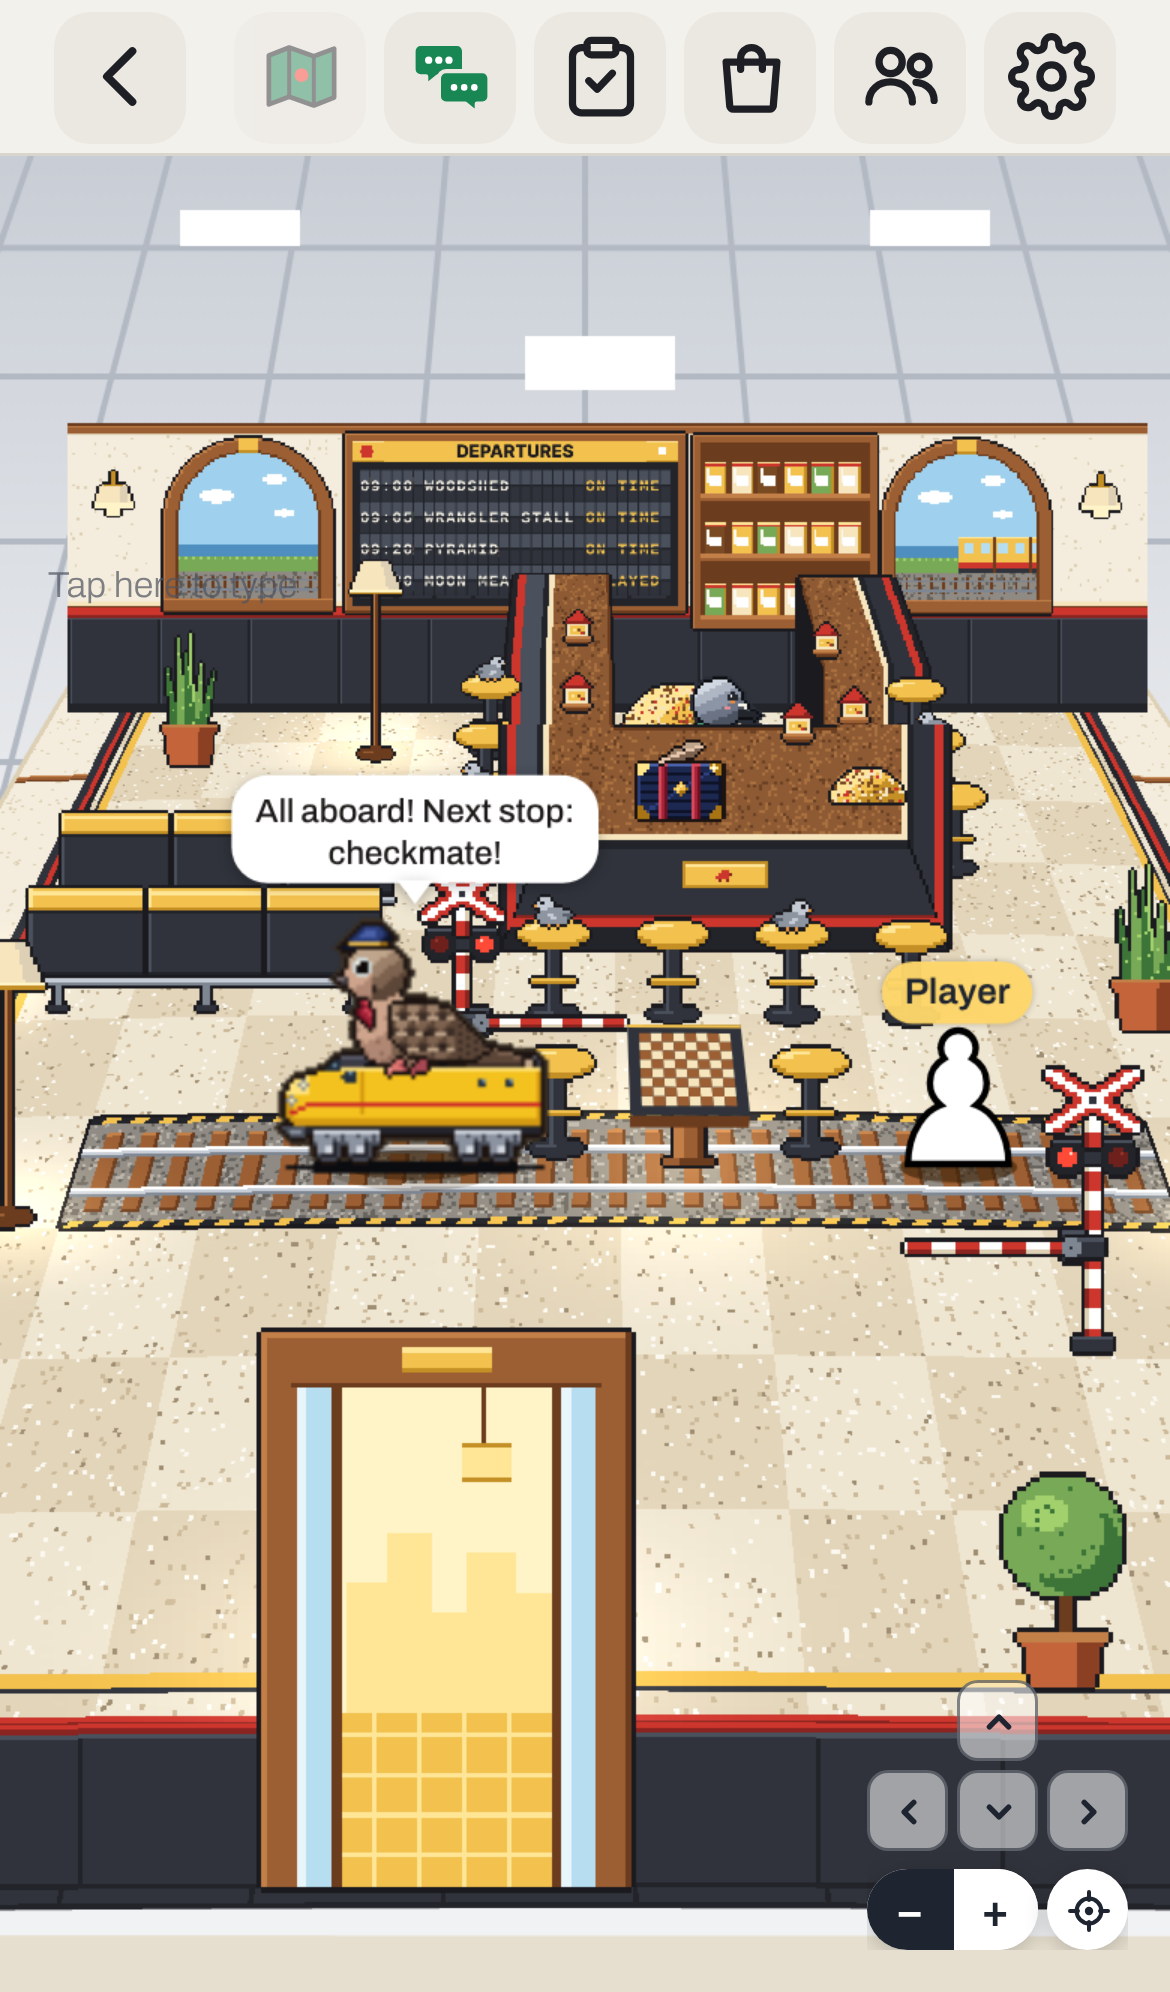
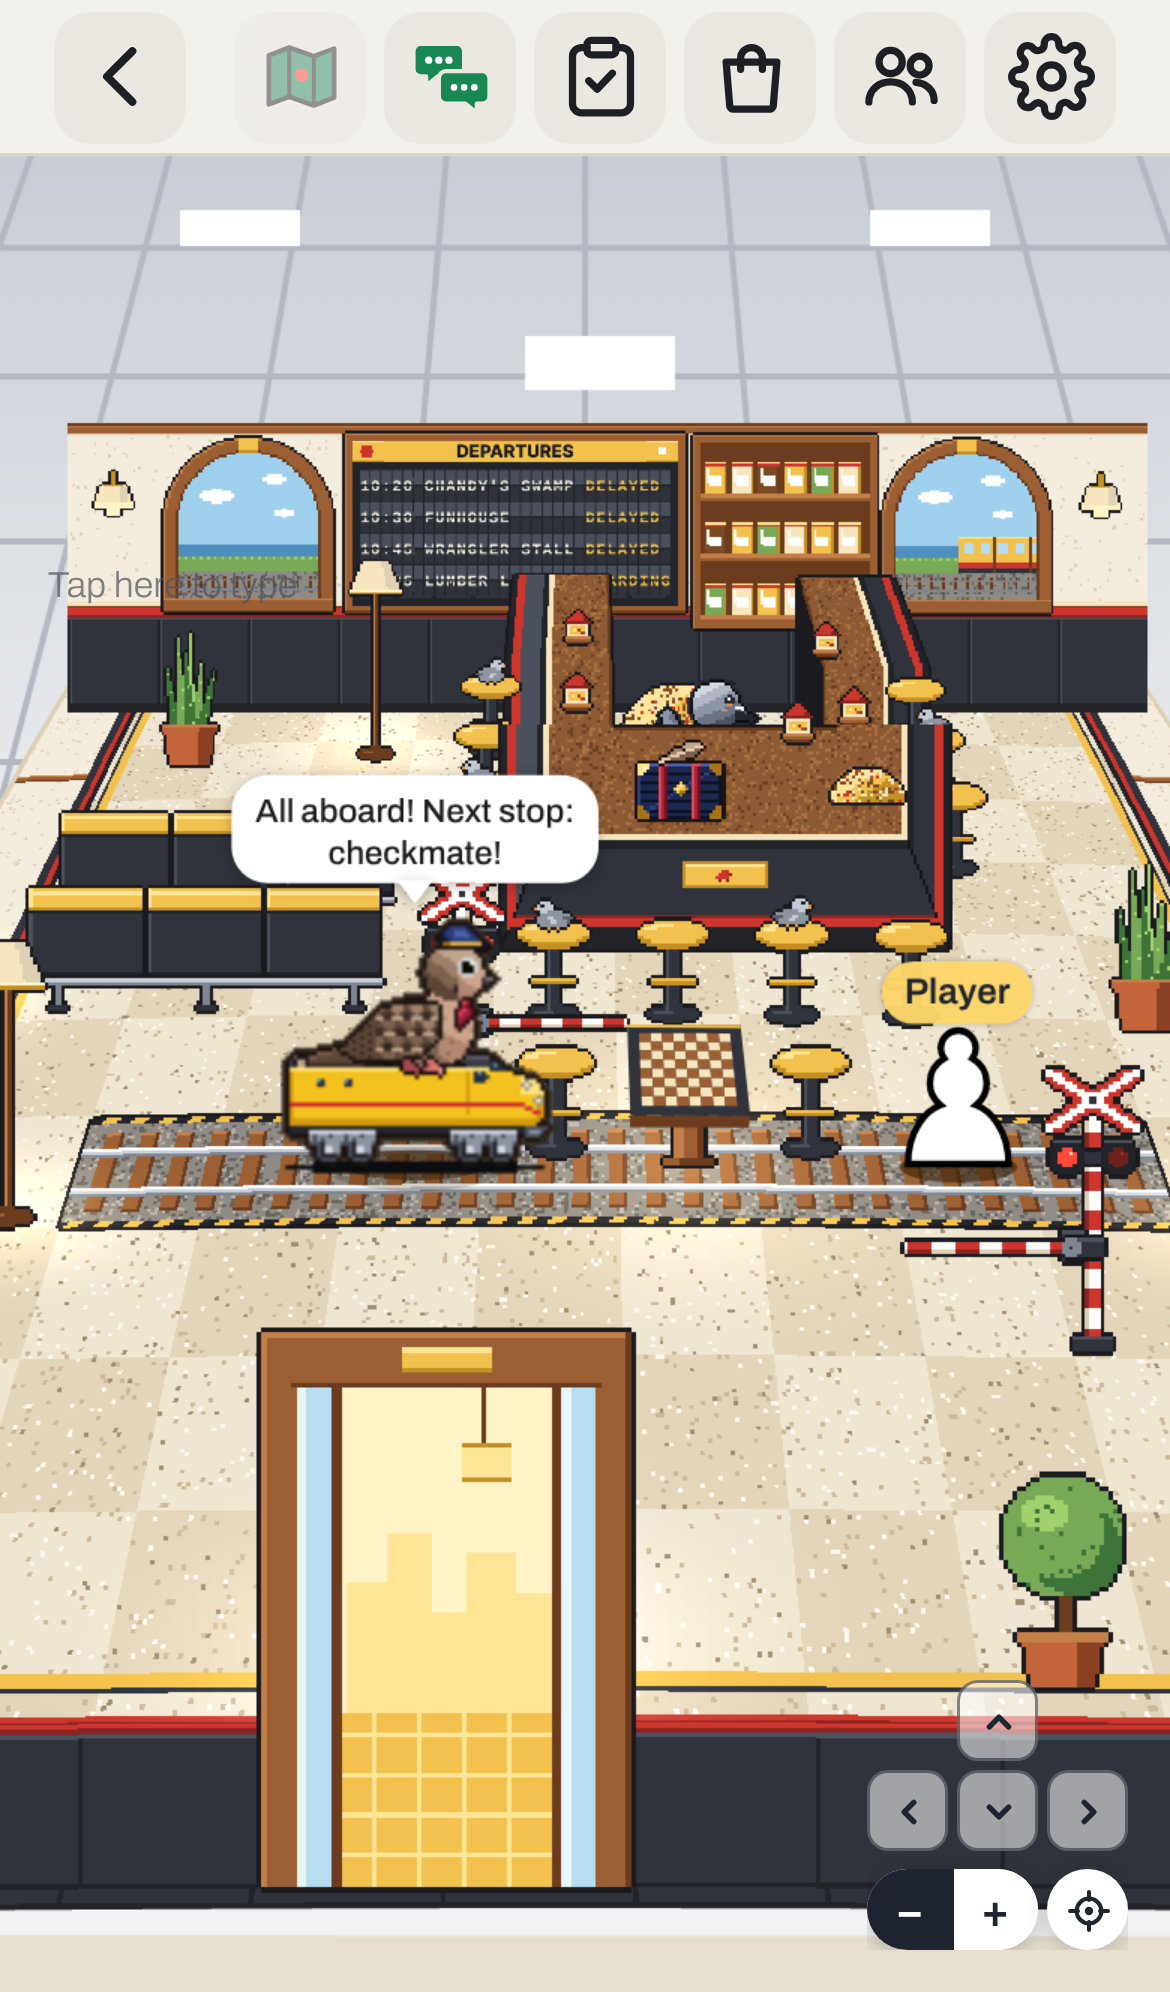
Birdie's lobby round 4: the challenge stills retaken with Birdie facing the table
Claude-Session: https://claude.ai/code/session_01JuCWRrZMbUBnzCfeJ7P7uy

diff --git a/NOTE.md b/NOTE.md
@@ -40,3 +40,7 @@ its depth, so it reads as one counter from every camera.
 - From the usual camera the arms' tops rise toward the back wall as they recede, as the run's top does over its face: every upright
   thing in the room stands up at its depth this way, and the arms now do it smoothly, not in three steps.
 - The art's bar stools stand a little taller than the table's top.
+
+Facing fix (Nov 23, Eric: "He's facing the wrong way in the building"): `gates-lowering-phone.png`, `gates-down-phone.png` and
+`gates-table-phone.png` retaken. On his mark west of the table Birdie now faces it (east): his train's nose and his face toward the
+table and you, through every beat.
